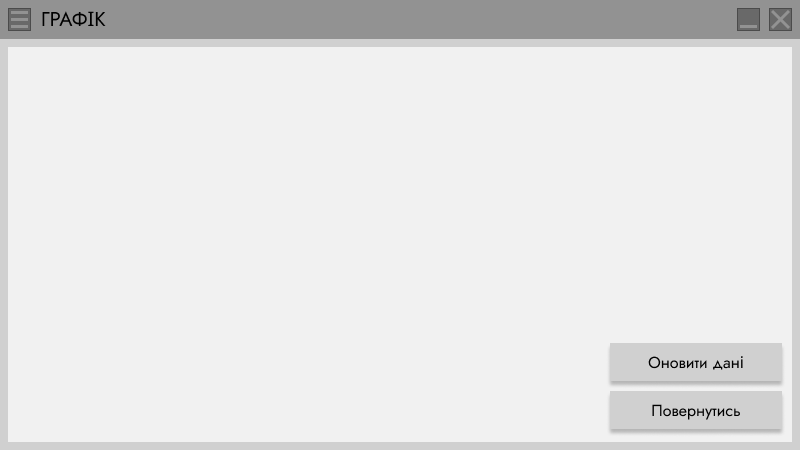
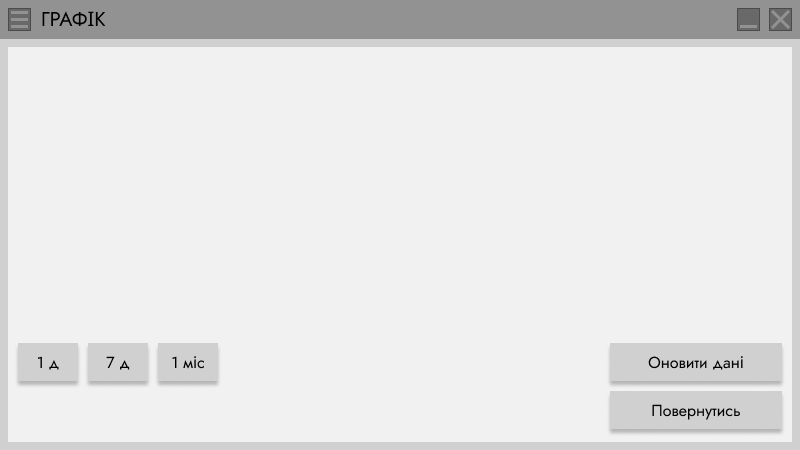
Reworked Chart logic, added 3 Buttons to the ChartWindow: 1 day, 7 days, 1 month

Changed region(s): [[0.0, 0.7467, 0.2812, 0.8711]]

diff --git a/Views/ChartWindow.xaml b/Views/ChartWindow.xaml
@@ -31,6 +31,10 @@
             </lvc:CartesianChart.AxisY>
         </lvc:CartesianChart>
 
+        <Button x:Name="btn1day" Style="{StaticResource ButtonStyle}" Margin="18,343,722,68" Click="btn1day_Click"/>
+        <Button x:Name="btn7days" Style="{StaticResource ButtonStyle}" Margin="88,343,652,68" Click="btn7days_Click"/>
+        <Button x:Name="btn1month" Style="{StaticResource ButtonStyle}" Margin="158,343,582,68" Click="btn1month_Click"/>
+
         <Button x:Name="btnRefresh" Style="{StaticResource ButtonStyle}" Margin="610,343,19,68" Click="btnRefresh_Click"/>
         <Button x:Name="btnReturn" Style="{StaticResource ButtonStyle}" Margin="610,391,18,20" Click="btnReturn_Click"/>
 

diff --git a/Views/ChartWindow.xaml.cs b/Views/ChartWindow.xaml.cs
@@ -141,21 +141,20 @@ namespace CoinView.Views
             await apiService.GetCrpytoDataAsync(Constants.ApiUrl, Constants.FilePathData);
             currencyRoot = apiService.GetDeserializedData(Constants.FilePathData);
             UpdateCurrencyChart();
-
         }
         
         private async Task<List<CurrencyHistory>> UpdateCurrencyHistory()
         {
-            string url = $"http://api.coincap.io/v2/assets/{currencyRoot.Data[currentIndex].Id}/history?interval=m1";
+            string url = $"http://api.coincap.io/v2/assets/{currencyRoot.Data[currentIndex].Id}/history?interval=d1";
             ApiService apiService = new ApiService();
             await apiService.GetCrpytoDataAsync(url, Constants.FilePathHistory);
             currencyHistory = apiService.GetDeserializedHistory(Constants.FilePathHistory);
 
-            DateTimeOffset dateEnd = DateTimeOffset.Now;
-            DateTimeOffset dateStart = dateEnd.AddDays(-1);
+            DateTimeOffset dateEnd = DateTime.Now.Date;
+            DateTimeOffset dateStart = dateEnd.AddDays(-30);
 
             return currencyHistory
-                .Where(x => x.Date.ToLocalTime() < dateEnd && x.Date.ToLocalTime() > dateStart)
+                .Where(x => x.Date < dateEnd && x.Date > dateStart)
                 .ToList();
         }
 
@@ -165,40 +164,40 @@ namespace CoinView.Views
 
             var chartValues = await UpdateCurrencyHistory();
 
-            // Останню точку завжди додаємо
-            if (chartValues.Count > 0)
+            SeriesCollection = new SeriesCollection
             {
-                List<decimal> filteredValues = new List<decimal>
+                new LineSeries
                 {
-                    chartValues[0].PriceUsd // Додаємо першу точку
-                };
-
-                // Додаємо кожну десяту точку
-                for (int i = 5; i < chartValues.Count; i += 10)
-                {
-                    filteredValues.Add(chartValues[i].PriceUsd);
+                    Title = currencyRoot.Data[currentIndex].Id,
+                    Values = new ChartValues<decimal>(chartValues.Select(x => x.PriceUsd)),
+                    StrokeThickness = 3
                 }
+            };
 
-                SeriesCollection = new SeriesCollection
-                {
-                    new LineSeries
-                    {
-                        Title = currencyRoot.Data[currentIndex].Id,
-                        Values = new ChartValues<decimal>(filteredValues),
-                        StrokeThickness = 3
-                    }
-                };
+            YFormatter = value => value.ToString("N2") + "$";
 
-                YFormatter = value => value.ToString("N2") + "$";
+            // Створюємо масив міток для відображення на осі X
+            Labels = chartValues.Select(x => x.Date.ToString("f")).ToArray();
 
-                // Створюємо масив міток для відображення на осі X
-                Labels = chartValues.Select(x => x.Date.ToString("d")).ToArray();
-
-                // Поновлюємо контекст даних графіку
-                lvcChart.DataContext = null;
-                lvcChart.DataContext = this;
-            }
+            // Поновлюємо контекст даних графіку
+            lvcChart.DataContext = null;
+            lvcChart.DataContext = this;
         }
         #endregion
+
+        private void btn1day_Click(object sender, RoutedEventArgs e)
+        {
+
+        }
+
+        private void btn7days_Click(object sender, RoutedEventArgs e)
+        {
+
+        }
+
+        private void btn1month_Click(object sender, RoutedEventArgs e)
+        {
+
+        }
     }
 }
